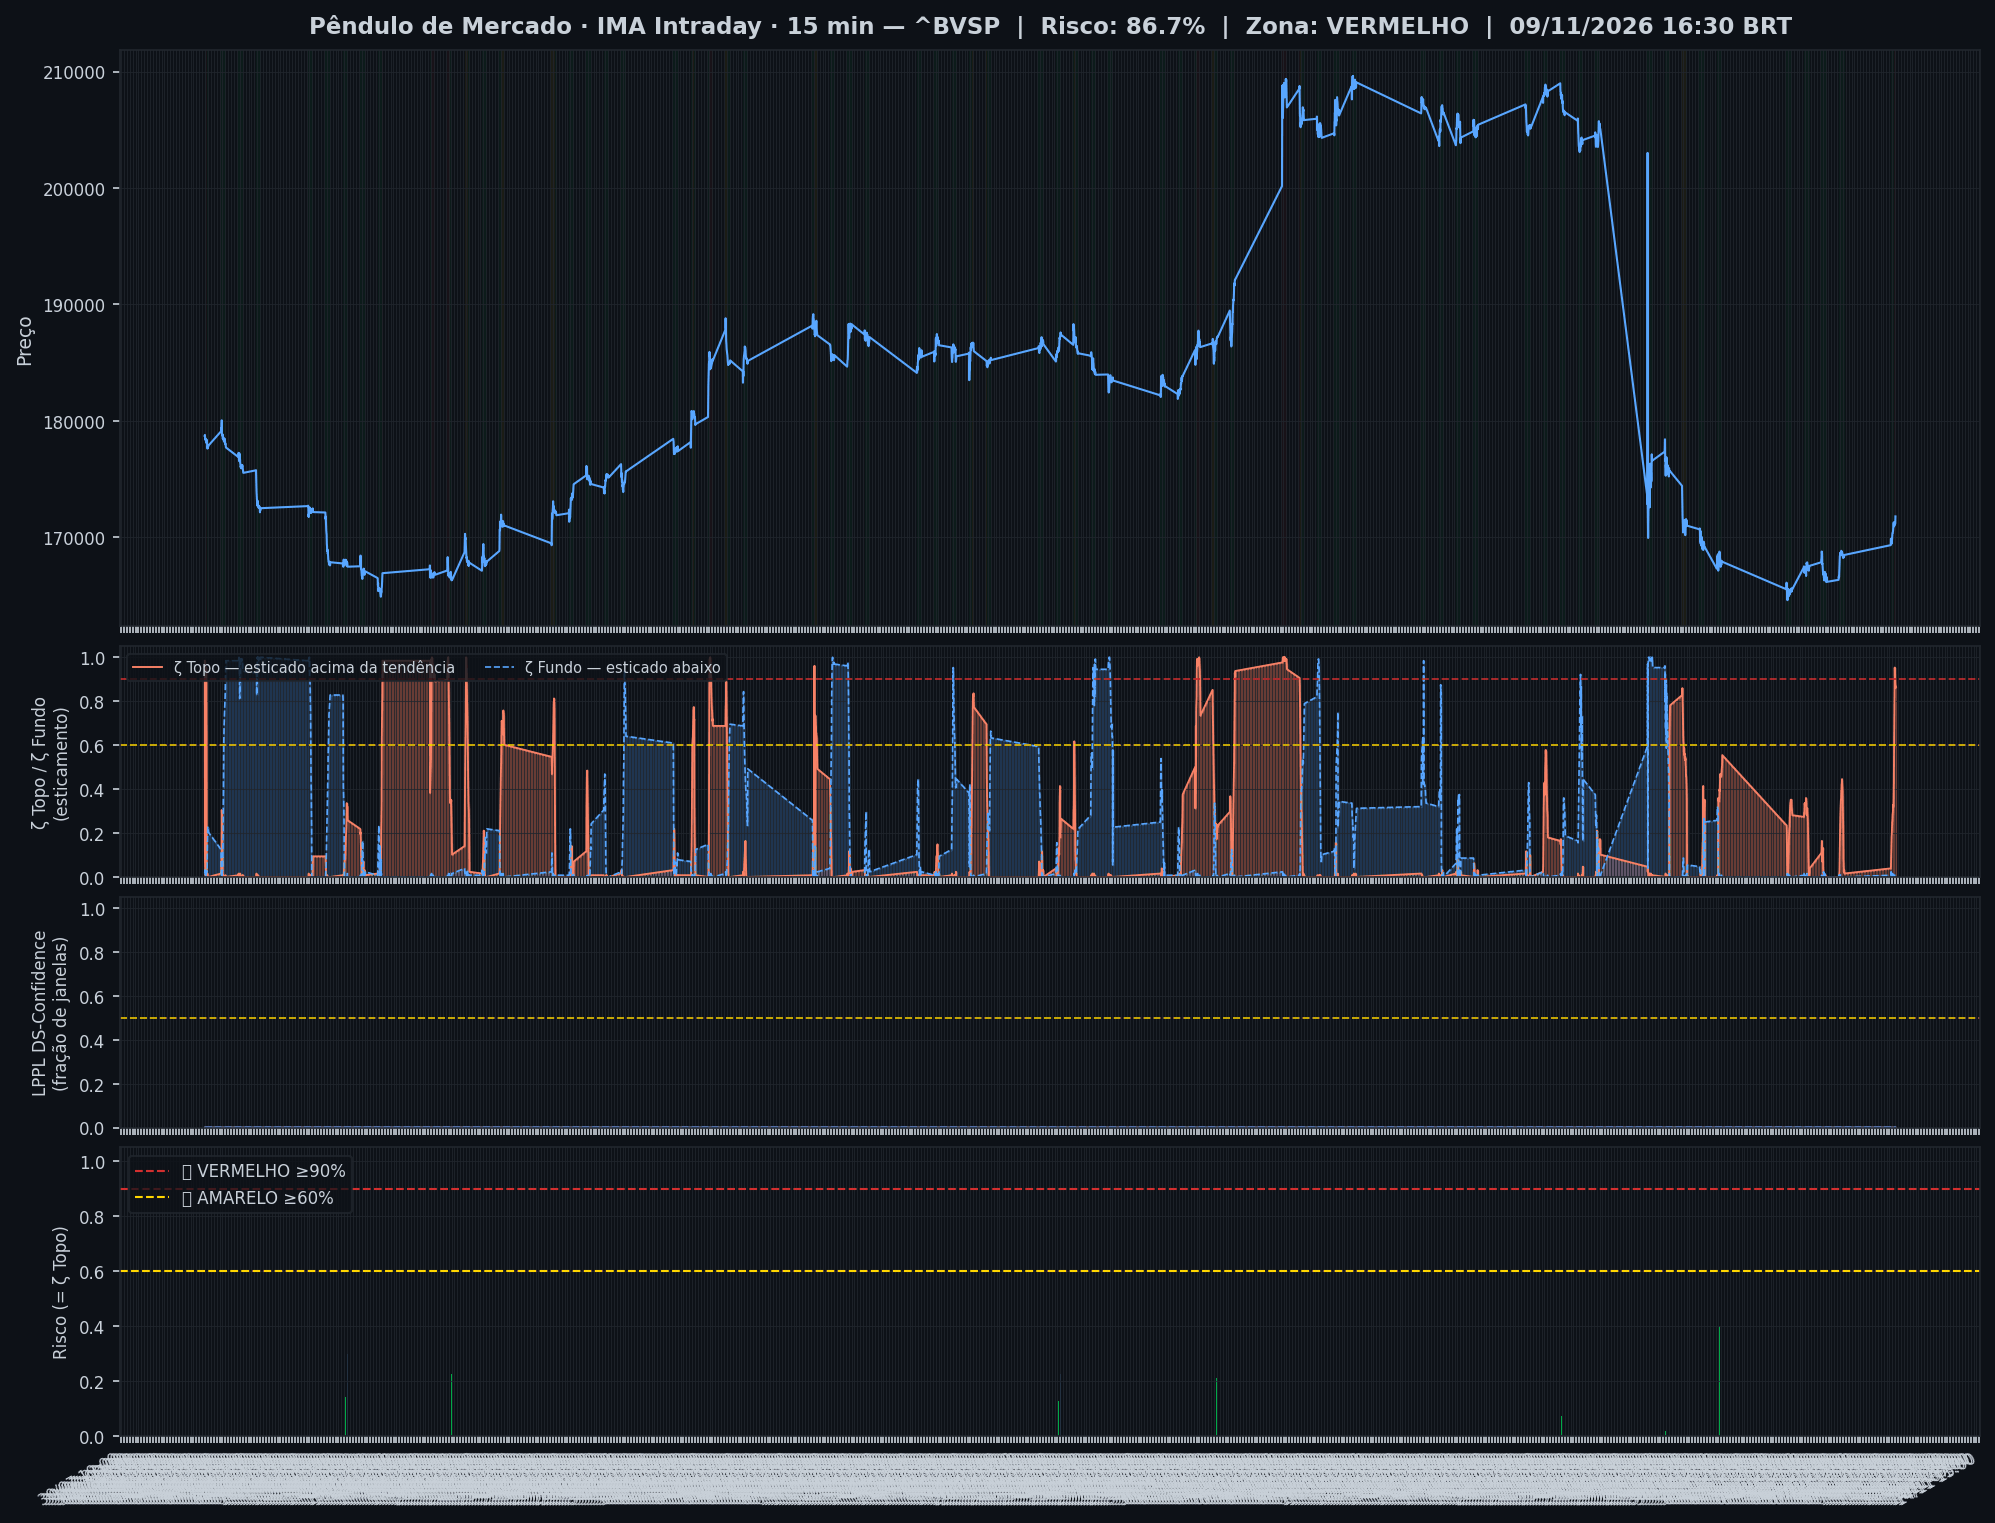
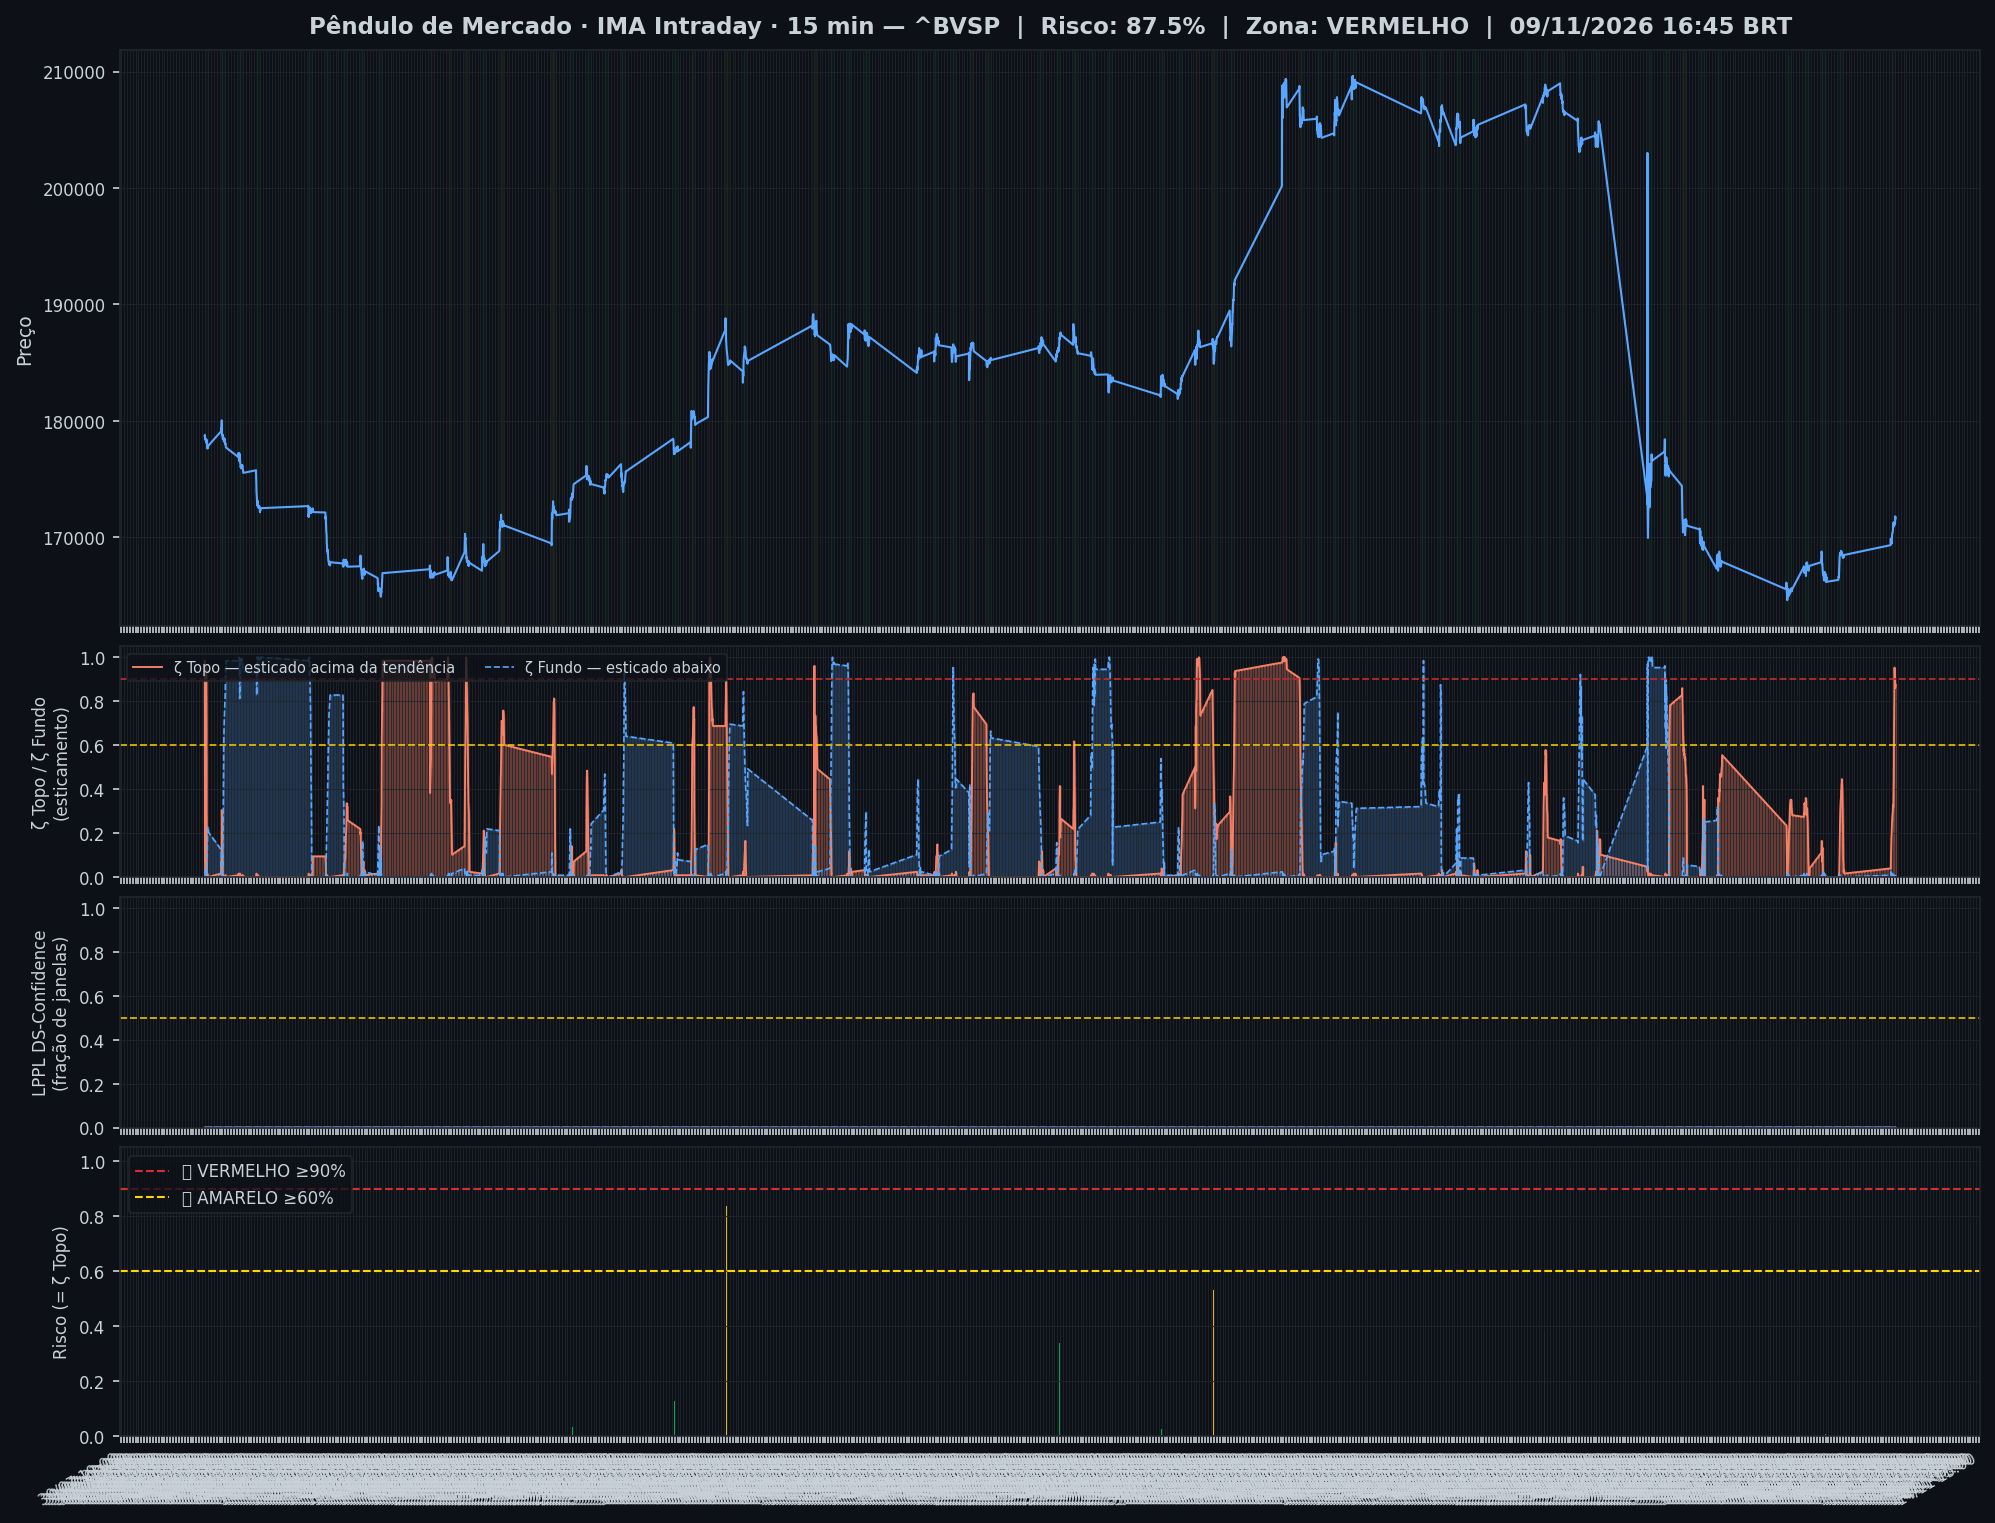
🤖 Auto: Sinal 09/11/2026 17:01

diff --git a/content/intraday/2026-11-09.md b/content/intraday/2026-11-09.md
@@ -1,10 +1,10 @@
 ---
-title: "🔴 Intraday 09/11/2026 16:30 BRT — VERMELHO"
+title: "🔴 Intraday 09/11/2026 16:45 BRT — VERMELHO"
 date: 2026-11-09
 tags: [intraday]
 ---
 
-> [!warning] Onde o mercado está agora (09/11 16:30, candles de 15 min): **🟡 Esticado para cima**
+> [!warning] Onde o mercado está agora (09/11 16:45, candles de 15 min): **🟡 Esticado para cima**
 > `Pânico ◀───────────────────●─▶ Euforia`
 >
 > O Ibovespa subiu mais rápido que o normal e está acima da sua faixa habitual.
@@ -20,26 +20,26 @@ tags: [intraday]
 > | 📍 **Sinais** | hoje: nenhum sinal | [abrir](sinais-topo-fundo/) |
 > | 🧪 **Placar ao vivo** | 1 operação(ões), 0 com lucro, soma -0,8% | [abrir](operacoes/) |
 
-> [!danger] IMA Intraday · 15 min (09/11 16:30): 🔴 **VERMELHO** — Risco 87% · ▲ +1 p.p. vs leitura anterior
-> `█████████████████░░░`
+> [!danger] IMA Intraday · 15 min (09/11 16:45): 🔴 **VERMELHO** — Risco 88% · ▲ +1 p.p. vs leitura anterior
+> `██████████████████░░`
 > ALERTA — esticamento extremo (ζ ≥ 0,90): risco de reversão.
 
 
-> [!warning] ⚠ Nível alto agora — IMA Intraday · 15 min (09/11 16:30)
-> - 🟡 **ζ Topo 87%** — preço esticado acima da tendência (risco de reversão)
+> [!warning] ⚠ Nível alto agora — IMA Intraday · 15 min (09/11 16:45)
+> - 🟡 **ζ Topo 88%** — preço esticado acima da tendência (risco de reversão)
 
 > [!note] 🧭 IMA Diário · viés (06/11): 🔪 **Queda forte em curso**
 > 📚 historicamente, quedas assim costumaram continuar um pouco antes de virar
 >
 > *Leitura educacional baseada em 26 anos de dados, não recomendação. [Como usar](../metodologia/crise#3-como-usar-na-prática).*
 
-| Indicador — IMA Intraday · 15 min (09/11 16:30) | Valor |
+| Indicador — IMA Intraday · 15 min (09/11 16:45) | Valor |
 |---|---|
-| 🔴 ζ Topo — preço esticado acima da tendência | 🟡 **87%** |
-| 🔵 ζ Fundo — preço esticado abaixo da tendência | 0% |
+| 🔴 ζ Topo — preço esticado acima da tendência | 🟡 **88%** |
+| 🔵 ζ Fundo — preço esticado abaixo da tendência | 1% |
 | 🫧 LPPL bolha — alta super-exponencial (risco de crash) | 0% |
 | 🫧 LPPL antibolha — queda super-exponencial (risco de repique) | 0% |
-| 📊 Ibovespa | 171.810 pts |
+| 📊 Ibovespa | 171.641 pts |
 
 ![Gráfico do sinal](../graficos/sinal_intraday.png)
 
@@ -47,6 +47,7 @@ tags: [intraday]
 
 | Data | Zona | Evento | Risco | ζ Topo | ζ Fundo | LPPL |
 |---|---|---|---|---|---|---|
+| 2026-11-09 16:45 | 🔴 VERMELHO |  | 🟡 **88%** | 🟡 **88%** | 1% | 0% |
 | 2026-11-09 16:30 | 🔴 VERMELHO |  | 🟡 **87%** | 🟡 **87%** | 0% | 0% |
 | 2026-11-09 16:15 | 🔴 VERMELHO |  | 🟡 **86%** | 🟡 **86%** | 0% | 0% |
 | 2026-11-09 16:00 | 🔴 VERMELHO |  | 🟡 **88%** | 🟡 **88%** | 0% | 0% |
@@ -76,50 +77,49 @@ tags: [intraday]
 | 2026-11-09 10:00 | 🟢 VERDE |  | **4%** | 4% | 1% | 0% |
 | 2026-11-06 18:00 | 🟢 VERDE |  | **2%** | 2% | 0% | 0% |
 | 2026-11-06 17:45 | 🟢 VERDE |  | **2%** | 2% | 0% | 0% |
-| 2026-11-06 17:30 | 🟢 VERDE |  | **2%** | 2% | 0% | 0% |
 
 <small>Destaques: 🟡 ≥ 60% · 🔴 ≥ 90% (Risco e ζ Topo) · 🔵 ≥ 60% · 🔪 ≥ 90% (ζ Fundo) · 🫧 ≥ 30% · 🫧🔴 ≥ 50% (LPPL)</small>
 
 ## Monitor Multi-Ativo
 
-**4% dos ativos em tensão** (0🔴 2🟡) · **1 com ζ Fundo alto** — quanto mais ativos disparam juntos, mais confiável o sinal.
+**4% dos ativos em tensão** (0🔴 2🟡) · **2 com ζ Fundo alto** — quanto mais ativos disparam juntos, mais confiável o sinal.
 
 > [!warning] Em destaque no multi-ativo
-> 🟡 **AMBEV S/A** ζ Topo 87% · 🔵 **BRASIL** ζ Fundo 67%
+> 🟡 **AMBEV S/A** ζ Topo 89% · 🔵 **USD/BRL** ζ Fundo 84% · 🔵 **BRASIL** ζ Fundo 71%
 
 | Zona | Ativo | Setor | ζ Topo | ζ Fundo |
 |---|---|---|---|---|
-| 🟡 | **AMBEV S/A** | Consumo | 🟡 **86.7%** | 0.0% |
-| 🟢 | **BRASIL** | Financeiro | 0.0% | 🔵 **67.2%** |
-| 🟢 | **USD/BRL** | Câmbio | 0.8% | 57.0% |
-| 🟡 | **ULTRAPAR** | Outros | 54.7% | 0.0% |
-| 🟢 | **B3** | Financeiro | 47.7% | 0.0% |
-| 🟢 | **VIBRA** | Energia | 37.5% | 0.0% |
+| 🟡 | **AMBEV S/A** | Consumo | 🟡 **89.1%** | 0.0% |
+| 🟢 | **USD/BRL** | Câmbio | 0.8% | 🔵 **83.6%** |
+| 🟢 | **BRASIL** | Financeiro | 0.0% | 🔵 **71.1%** |
+| 🟢 | **B3** | Financeiro | 50.0% | 1.6% |
+| 🟡 | **ULTRAPAR** | Outros | 48.4% | 0.0% |
+| 🟢 | **VIBRA** | Energia | 34.4% | 1.6% |
+| 🟢 | **WEG** | Industrial | 27.3% | 0.8% |
 | 🟢 | **PRIO** | Petróleo | 0.8% | 26.6% |
-| 🟢 | **WEG** | Industrial | 25.0% | 0.8% |
-| 🟢 | **VALE** | Mineração | 23.4% | 0.0% |
-| 🟢 | **REDE D OR** | Saúde | 21.1% | 0.8% |
-| 🟢 | **PETROBRAS** | Petróleo | 0.0% | 9.4% |
-| 🟢 | **ITAUSA** | Financeiro | 8.6% | 0.0% |
-| 🟢 | **PETROBRAS** | Petróleo | 0.8% | 7.8% |
-| 🟢 | **SUZANO S.A.** | Papel/Celulose | 7.0% | 0.0% |
-| 🟢 | **SABESP** | Saneamento | 5.5% | 0.8% |
-| 🟢 | **BRADESCO** | Financeiro | 4.7% | 0.0% |
-| 🟢 | **LOCALIZA** | Aluguel | 0.0% | 3.9% |
-| 🟢 | **ITAUUNIBANCO** | Financeiro | 2.3% | 0.0% |
-| 🟢 | **ENEVA** | Energia | 2.3% | 0.0% |
-| 🟢 | **AXIA ENERGIA** | Energia | 0.8% | 1.6% |
-| 🟢 | **EMBRAER** | Outros | 1.6% | 0.0% |
-| 🟢 | **GERDAU** | Siderurgia | 1.6% | 0.0% |
-| 🟢 | **BTGP BANCO** | Financeiro | 0.8% | 0.0% |
-| 🟢 | **COPEL** | Energia | 0.8% | 0.8% |
-| 🟢 | **EQUATORIAL** | Energia | 0.8% | 0.8% |
+| 🟢 | **REDE D OR** | Saúde | 26.6% | 0.8% |
+| 🟢 | **VALE** | Mineração | 25.8% | 0.0% |
+| 🟢 | **ITAUSA** | Financeiro | 14.8% | 0.8% |
+| 🟢 | **PETROBRAS** | Petróleo | 0.8% | 11.7% |
+| 🟢 | **SUZANO S.A.** | Papel/Celulose | 10.2% | 0.0% |
+| 🟢 | **SABESP** | Saneamento | 7.0% | 0.8% |
+| 🟢 | **PETROBRAS** | Petróleo | 0.8% | 6.2% |
+| 🟢 | **BRADESCO** | Financeiro | 6.2% | 0.0% |
+| 🟢 | **ITAUUNIBANCO** | Financeiro | 4.7% | 0.8% |
+| 🟢 | **ENEVA** | Energia | 4.7% | 0.0% |
+| 🟢 | **LOCALIZA** | Aluguel | 0.0% | 4.7% |
+| 🟢 | **GERDAU** | Siderurgia | 3.1% | 0.8% |
+| 🟢 | **AXIA ENERGIA** | Energia | 1.6% | 2.3% |
+| 🟢 | **COPEL** | Energia | 2.3% | 1.6% |
+| 🟢 | **BTGP BANCO** | Financeiro | 1.6% | 0.8% |
+| 🟢 | **EQUATORIAL** | Energia | 1.6% | 0.8% |
+| 🟢 | **EMBRAER** | Outros | 0.8% | 0.8% |
 
 <small>Destaques: 🟡 ≥ 60% · 🔴 ≥ 90% (Risco e ζ Topo) · 🔵 ≥ 60% · 🔪 ≥ 90% (ζ Fundo) · 🫧 ≥ 30% · 🫧🔴 ≥ 50% (LPPL)</small>
 
 ![Monitor multi-ativo](../graficos/multi_intraday.png)
 
-*Página atualizada em 09/11/2026 16:45 BRT (leitura da barra de 2026-11-09 16:30 BRT).*
+*Página atualizada em 09/11/2026 17:01 BRT (leitura da barra de 2026-11-09 16:45 BRT).*
 
 > [!warning] O que este indicador não faz
 > Medido em 5 anos de Ibovespa, o ζ **não antecipa** topos nem fundos: a capacidade de separar o que sobe do que cai ficou em 0,49–0,52, e 0,50 é moeda jogada ao ar. Ele descreve o estado de agora; não é aviso do que vem. As zonas verde/amarelo/vermelho continuam na página como descrição desse estado — **não as use como sinal de entrada ou saída**.

diff --git a/content/index.md b/content/index.md
@@ -6,9 +6,9 @@ tags: [home]
 
 **As ondas do mercado, explicadas.** Leitura do Ibovespa com estatística de 26 anos, baseada no trabalho de pesquisadores e traders reconhecidos e adaptada por Jarbas Daniel da Costa.
 
-*Última atualização: 09/11/2026 16:45 BRT · Intraday 15min*
+*Última atualização: 09/11/2026 17:01 BRT · Intraday 15min*
 
-> [!warning] Onde o mercado está agora (09/11 16:30, candles de 15 min): **🟡 Esticado para cima**
+> [!warning] Onde o mercado está agora (09/11 16:45, candles de 15 min): **🟡 Esticado para cima**
 > `Pânico ◀───────────────────●─▶ Euforia`
 >
 > O Ibovespa subiu mais rápido que o normal e está acima da sua faixa habitual.
@@ -16,14 +16,14 @@ tags: [home]
 >
 > *Leitura educacional baseada em 26 anos de dados. Não é recomendação de investimento.*
 
-> [!warning] ⚠ Nível alto agora — IMA Intraday · 15 min (09/11 16:30)
-> - 🟡 **ζ Topo 87%** — preço esticado acima da tendência (risco de reversão)
+> [!warning] ⚠ Nível alto agora — IMA Intraday · 15 min (09/11 16:45)
+> - 🟡 **ζ Topo 88%** — preço esticado acima da tendência (risco de reversão)
 
 ## Agora
 
 | Módulo | Agora | |
 |---|---|---|
-| 🌊 **Sinal IMA** | 🔴 VERMELHO · 🟡 esticado para cima · ζ Topo 🟡 **87%** | [relatório](intraday/2026-11-09) |
+| 🌊 **Sinal IMA** | 🔴 VERMELHO · 🟡 esticado para cima · ζ Topo 🟡 **88%** | [relatório](intraday/2026-11-09) |
 | 📈 **Tendência MME9** | Diário — fora<br>Semanal — fora | [abrir](operacoes/tendencia) |
 | 🎯 **Entradas do método** | ⏳ aguardando: Diário · Nadaraya, Diário · Semáforo N3 após ζ Fundo | [abrir](operacoes/entradas) |
 | 📍 **Sinais** | hoje: nenhum sinal | [abrir](sinais-topo-fundo/) |
@@ -52,18 +52,18 @@ tags: [home]
 > *Leitura educacional baseada em 26 anos de dados, não recomendação. [Como usar](metodologia/crise#3-como-usar-na-prática).*
 
 > [!info]- 🌊 Detalhes do Sinal IMA (indicadores e últimos 7 pregões)
-> > [!danger] IMA Intraday · 15 min (09/11 16:30): 🔴 **VERMELHO** — Risco 87% · ▲ +1 p.p. vs leitura anterior
-> > `█████████████████░░░`
+> > [!danger] IMA Intraday · 15 min (09/11 16:45): 🔴 **VERMELHO** — Risco 88% · ▲ +1 p.p. vs leitura anterior
+> > `██████████████████░░`
 > > ALERTA — esticamento extremo (ζ ≥ 0,90): risco de reversão.
 >
 >
-> | Indicador — IMA Intraday · 15 min (09/11 16:30) | Valor |
+> | Indicador — IMA Intraday · 15 min (09/11 16:45) | Valor |
 > |---|---|
-> | 🔴 ζ Topo — preço esticado acima da tendência | 🟡 **87%** |
-> | 🔵 ζ Fundo — preço esticado abaixo da tendência | 0% |
+> | 🔴 ζ Topo — preço esticado acima da tendência | 🟡 **88%** |
+> | 🔵 ζ Fundo — preço esticado abaixo da tendência | 1% |
 > | 🫧 LPPL bolha — alta super-exponencial (risco de crash) | 0% |
 > | 🫧 LPPL antibolha — queda super-exponencial (risco de repique) | 0% |
-> | 📊 Ibovespa | 171.810 pts |
+> | 📊 Ibovespa | 171.641 pts |
 >
 > **Multi-ativo:** 4% em tensão (0🔴 2🟡 de 25 ativos)
 >
@@ -71,7 +71,7 @@ tags: [home]
 >
 > | Data | Zona | Risco | ζ Topo | ζ Fundo | LPPL |
 > |---|---|---|---|---|---|
-> | [09/11/2026](intraday/2026-11-09) | 🔴 VERMELHO | 🟡 **87%** | 🟡 **87%** | 0% | 0% |
+> | [09/11/2026](intraday/2026-11-09) | 🔴 VERMELHO | 🟡 **88%** | 🟡 **88%** | 1% | 0% |
 > | [06/11/2026](intraday/2026-11-06) | 🟢 VERDE | **2%** | 2% | 0% | 0% |
 >
 > <small>Destaques: 🟡 ≥ 60% · 🔴 ≥ 90% (Risco e ζ Topo) · 🔵 ≥ 60% · 🔪 ≥ 90% (ζ Fundo) · 🫧 ≥ 30% · 🫧🔴 ≥ 50% (LPPL)</small>

diff --git a/content/operacoes/entradas.md b/content/operacoes/entradas.md
@@ -31,7 +31,7 @@ description: "Compra depois de um sinal de fundo: Nadaraya no diário, semáforo
 > | Diário · Semáforo N3 após ζ Fundo | 07/07/26 a 172.021 | 10/08/26 a 172.021 | **+0,0%** | stop no preço de entrada |
 > | H4 · Semáforo N2 | 12/06/26 14h a 171.134 | 15/06/26 14h a 171.134 | **+0,0%** | stop no preço de entrada |
 >
-> <small>Atualizado 06/11 19:00 · checado no pregão às 16:45. Nota: ✅ passou no teste fora da amostra (walk-forward 2008–2026) · 🧪 em teste (H4, com aviso no Telegram) ou em observação (ζ, sem aviso) · 🧪 na tabela = operação do teste ao vivo.</small>
+> <small>Atualizado 06/11 19:00 · checado no pregão às 17:00. Nota: ✅ passou no teste fora da amostra (walk-forward 2008–2026) · 🧪 em teste (H4, com aviso no Telegram) ou em observação (ζ, sem aviso) · 🧪 na tabela = operação do teste ao vivo.</small>
 >
 > *Regras: depois de um sinal de fundo, o Diário entra quando o Nadaraya vira para cima; o Semanal e o H4 entram quando um fundo do semáforo fica fixo. Stop e saída de cada regra na [metodologia](metodologia/regras-de-operacao#entradas-do-método). Nenhuma regra de venda passou no teste. Os números do histórico têm viés de escolha (overfitting); o placar ao vivo é o que vale. Leitura educacional do método, não recomendação.*
 

diff --git a/content/historico.md b/content/historico.md
@@ -5,7 +5,7 @@ tags: [historico]
 
 # 📜 Histórico de leituras (v5)
 
-**2.237 leituras** desde 2026-07-03. Na página ficam os últimos 3 dias leitura por leitura e o resumo de cada dia anterior; o registro inteiro está no arquivo para baixar.
+**2.238 leituras** desde 2026-07-03. Na página ficam os últimos 3 dias leitura por leitura e o resumo de cada dia anterior; o registro inteiro está no arquivo para baixar.
 
 [**Baixar o histórico completo**](historico-completo.csv) (98 KB · abre no Excel e no LibreOffice)
 
@@ -16,6 +16,7 @@ tags: [historico]
 
 | Data | Modo | Zona | Risco | IMA | LPPL |
 |---|---|---|---|---|---|
+| 2026-11-09 16:45 | intraday | 🔴 VERMELHO | 🟡 **88%** | 🟡 **88%** | 0% |
 | 2026-11-09 16:30 | intraday | 🔴 VERMELHO | 🟡 **87%** | 🟡 **87%** | 0% |
 | 2026-11-09 16:15 | intraday | 🔴 VERMELHO | 🟡 **86%** | 🟡 **86%** | 0% |
 | 2026-11-09 16:00 | intraday | 🔴 VERMELHO | 🟡 **88%** | 🟡 **88%** | 0% |

diff --git a/content/operacoes/ranking.md b/content/operacoes/ranking.md
@@ -5,7 +5,7 @@ tags: [operacoes]
 description: "As regras de compra do site ordenadas pelo resultado, com treino, teste e placar ao vivo"
 ---
 
-*Atualizado 09/11/2026 16:45 · histórico simulado com as regras congeladas em 23/10/2026 + placar ao vivo.*
+*Atualizado 09/11/2026 17:01 · histórico simulado com as regras congeladas em 23/10/2026 + placar ao vivo.*
 
 As regras de compra do site, **da que mais rendeu para a que menos rendeu**. O resultado é por operação, no índice à vista, sem custos e sem juros compostos (a soma é só a soma das operações). **Treino** = entradas de 2001 a 2013 e **teste** = 2014 em diante: uma regra só é confiável se ganhou nos dois. O único resultado sem nenhum ajuste ao histórico é o **placar ao vivo**.
 

diff --git a/content/linha-do-tempo/index.md b/content/linha-do-tempo/index.md
@@ -5,7 +5,7 @@ description: "Todo sinal, ordem, stop e aviso do Pêndulo de Mercado, do mais re
 tags: [eventos]
 ---
 
-*Atualizada 09/11/2026 16:45 BRT · a cada 15 min no pregão e às 19h.*
+*Atualizada 09/11/2026 17:01 BRT · a cada 15 min no pregão e às 19h.*
 
 Tudo o que o sistema fez ou detectou, **do mais recente para o mais antigo**: sinais de topo e fundo, ordens de compra e de venda armadas, compras, vendas, stops, avisos de 🚨 preço perto do nível e mudanças do Sinal IMA. Os **últimos 7 dias** ficam abertos; o resto, por **ano → mês → dia**.
 
